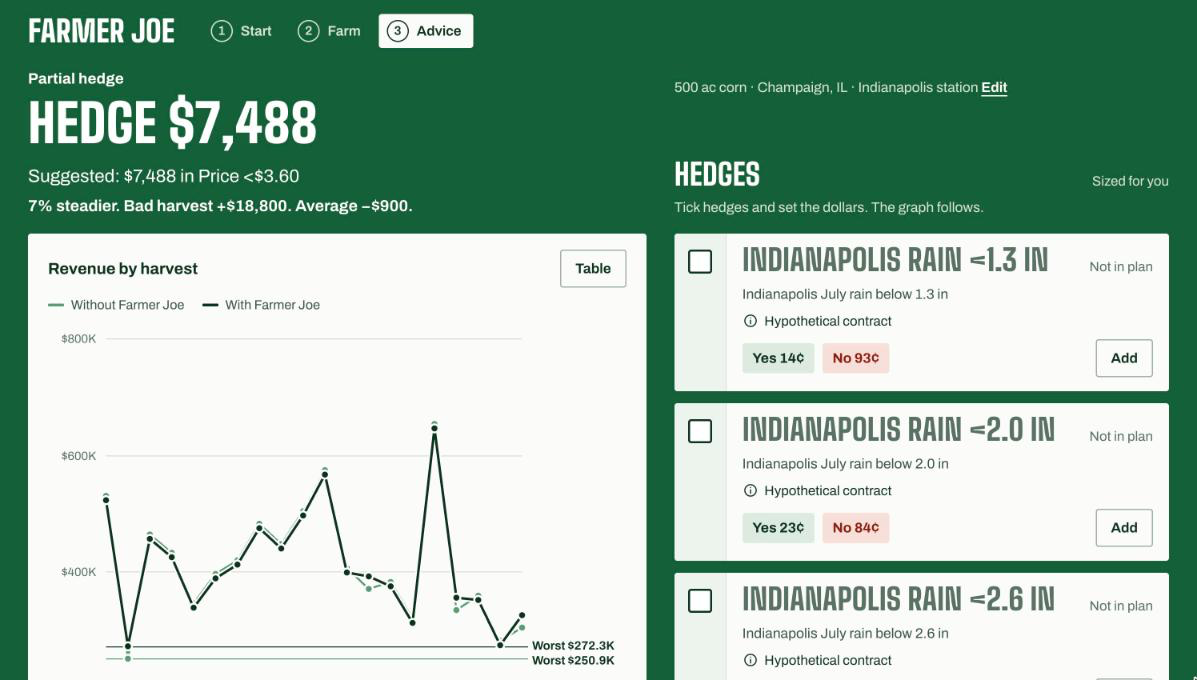
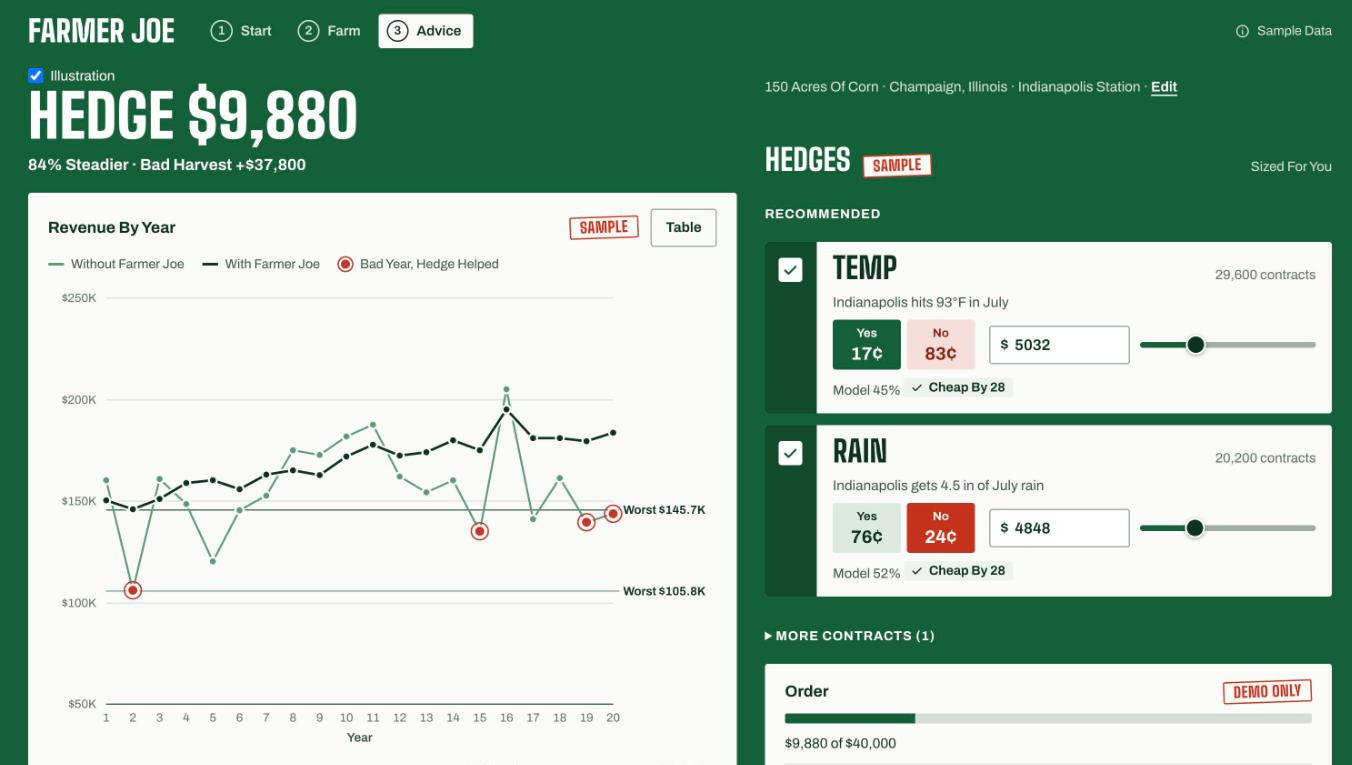
README: fresh screenshots (start, filled farm form, advice in Illustration mode); real-model example
- docs/screenshots/{start,farm,advice}.png retaken wide, without browser chrome
- README: advice.png on top with caption, start + farm side by side under How It Works
- Example uses real-model numbers for 150 ac Champaign corn, $40K, Most Stability

diff --git a/README.md b/README.md
@@ -1,8 +1,9 @@
 # Farmer Joe
 
-**Hedge Advice for Farmers, Using Prediction Markets.**
+**Hedge Advice For Farmers, Using Prediction Markets.**
 
-![Farmer Joe Advice Screen](docs/screenshots/advice.png)
+![Farmer Joe advice screen in illustration mode](docs/screenshots/advice.png)
+*Advice Screen (Illustration Mode).*
 
 A dry July, a heat wave or a price drop can wipe out a farm's year. Farmer Joe simulates 10,000
 possible seasons for one specific farm and recommends which weather or crop-price contracts would
@@ -10,30 +11,32 @@ protect its income, or says that protection isn't worth buying.
 
 ## How It Works
 
-| 1. Describe Your Farm | 2. Get Advice |
+| 1. Start | 2. Describe Your Farm |
 |---|---|
-| ![Farm Form](docs/screenshots/farm.png) | ![Advice](docs/screenshots/advice.png) |
+| ![Start screen](docs/screenshots/start.png) | ![Farm form filled in for Champaign, Illinois corn](docs/screenshots/farm.png) |
 
 1. **Describe Your Farm:** location, crop (corn, soybeans or wheat), acres, yield, price, budget.
-2. **Simulate the Season:** 30 years of weather history become 10,000 possible seasons.
+2. **Simulate The Season:** 30 years of weather history become 10,000 possible seasons.
 3. **Get Advice:** the few contracts that best protect your bad years, how many to buy, and the
    most to pay. Or "don't hedge."
 
 ## Example
 
-**Dana grows 500 acres of corn near Champaign, Illinois.** A normal year earns her about $414,000;
-a bad year (1 in 20), about $267,000. Rain contracts in nearby cities barely track her farm, so
-Farmer Joe recommends a **partial hedge**: about $7,500 on "corn price below $3.60," which lifts
-her bad-year income by roughly $19,000.
+**Dana grows 150 acres of corn near Champaign, Illinois** (200 bu/acre, $4.50/bu, $40,000 budget,
+"Most Stability"). A normal year earns her about $124,000; a bad year (1 in 20), about $80,000.
+Weather contracts in Indianapolis and Chicago, 105 and 129 miles away, barely track her farm, so
+Farmer Joe recommends a **hedge** of about $35,600 in three corn-price contracts that pay if the
+harvest price ends below $3.60, $4.05 or $5.40. Her bad-year income rises to about $97,000, her
+year-to-year swing drops 43%, and the protection costs about $2,000 a year.
 
-*Illustrative numbers from placeholder settings.*
+*Model output with placeholder yield and price settings; contracts are hypothetical.*
 
 ## Run It
 
 ```bash
 python3 -m venv .venv && source .venv/bin/activate
 pip install -r requirements.txt
-python run.py --prewarm          # Optional: Cache the Demo Farms
+python run.py --prewarm          # Optional: Cache The Demo Farms
 uvicorn server:app --port 8000   # Then Open http://localhost:8000
 ```
 
